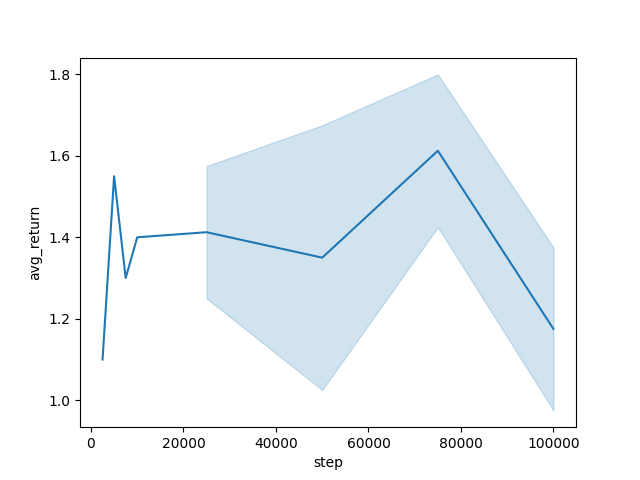
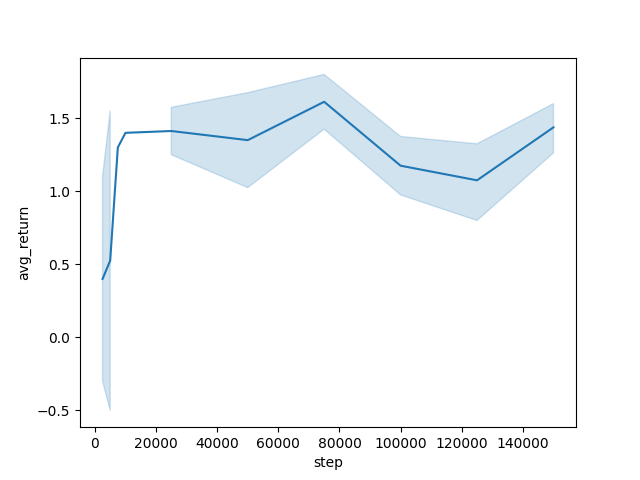
ajout drive sauveagarde

diff --git a/src/train.py b/src/train.py
@@ -5,8 +5,11 @@ import torch
 from crafter_wrapper import Env
 from dqn_agent import (DuelingCategoricalDQN, CategoricalDQNLearner, 
                       Agent, PrioritizedReplayBuffer)
+import json
+import shutil
+from pathlib import Path
 
-def _save_stats(episodic_returns, crt_step, path):
+def _save_stats(episodic_returns, crt_step, path, drive_path=None):
     episodic_returns = torch.tensor(episodic_returns)
     avg_return = episodic_returns.mean().item()
     print(
@@ -14,10 +17,17 @@ def _save_stats(episodic_returns, crt_step, path):
             crt_step, avg_return, episodic_returns.std().item()
         )
     )
+    # Sauvegarde locale
     with open(path / "eval_stats.pkl", "ab") as f:
         pickle.dump({"step": crt_step, "avg_return": avg_return}, f)
 
-def eval(agent, env, crt_step, opt):
+    # Sauvegarde sur Google Drive
+    if drive_path:
+        drive_path.mkdir(parents=True, exist_ok=True)
+        shutil.copy(path / "eval_stats.pkl", drive_path / "eval_stats.pkl")
+        print(f"Fichier sauvegardé dans Google Drive : {drive_path / 'eval_stats.pkl'}")
+
+def eval(agent, env, crt_step, opt, drive_path=None):
     episodic_returns = []
     for _ in range(opt.eval_episodes):
         obs, done = env.reset(), False
@@ -26,9 +36,12 @@ def eval(agent, env, crt_step, opt):
             action = agent.act(obs.to(opt.device), evaluate=True)
             obs, reward, done, info = env.step(action)
             episodic_returns[-1] += reward
-    _save_stats(episodic_returns, crt_step, Path(opt.logdir))
+    _save_stats(episodic_returns, crt_step, Path(opt.logdir), drive_path)
 
 def main(opt):
+    # Chemin Google Drive
+    drive_path = Path("/content/drive/MyDrive/your_project_folder/random_agent/0")
+    
     Path(opt.logdir).mkdir(parents=True, exist_ok=True)
     opt.device = torch.device("cuda" if torch.cuda.is_available() else "cpu")
     print(f"Using device: {opt.device}")
@@ -42,7 +55,7 @@ def main(opt):
     dqn = DuelingCategoricalDQN(action_space, opt.device, 
                                 atoms=opt.atoms, 
                                 Vmin=opt.Vmin, 
-                                Vmax=opt.Vmax).to(opt.device)
+                                Vmax=opt.Vmax,).to(opt.device)
     
     target_dqn = DuelingCategoricalDQN(action_space, opt.device,
                                        atoms=opt.atoms,
@@ -50,12 +63,11 @@ def main(opt):
                                        Vmax=opt.Vmax).to(opt.device)
     
     buffer = PrioritizedReplayBuffer(capacity=opt.buffer_size, history_length=opt.history_length)
-
     
     learner = CategoricalDQNLearner(
         dqn, target_dqn, action_space, buffer, opt.device, opt.logdir,
         gamma=opt.gamma, lr=opt.lr, Vmin=opt.Vmin, Vmax=opt.Vmax, atoms=opt.atoms,
-        target_update_freq=opt.target_update_freq, tau=0.005  # Add soft update parameter tau
+        target_update_freq=opt.target_update_freq, tau=0.005, drive_folder="/content/drive/MyDrive/your_project_folder/weights"
     )
     
     # Load weights if available
@@ -66,7 +78,7 @@ def main(opt):
         dqn, action_space,
         epsilon=1.0, 
         epsilon_min=opt.epsilon_min,
-        epsilon_decay=opt.epsilon_decay_slow  # Use slower decay rate
+        epsilon_decay=opt.epsilon_decay_slow
     )
 
     total_steps = 0
@@ -96,10 +108,12 @@ def main(opt):
             # Update exploration rate
             agent.update_epsilon()
 
-            # Periodic evaluation with increased frequency initially
+            # Periodic evaluation
             if total_steps % opt.eval_interval == 0:
-                eval(agent, eval_env, total_steps, opt)
+                eval(agent, eval_env, total_steps, opt, drive_path)
                 learner.save_weights()
+                shutil.copy(opt.logdir / "weights.pt", drive_path / "weights.pt")
+                print(f"Poids sauvegardés dans Google Drive : {drive_path / 'weights.pt'}")
 
         # Log episode end details every 10 episodes
         if episode % 10 == 0:

diff --git a/src/dqn_agent.py b/src/dqn_agent.py
@@ -235,7 +235,7 @@ class Agent:
 class CategoricalDQNLearner:
     def __init__(self, dqn, target_dqn, action_space, buffer, device, logdir, 
                  gamma=0.99, lr=0.00025, Vmin=-10, Vmax=10, atoms=51, 
-                 target_update_freq=8000, tau=0.005):
+                 target_update_freq=8000, tau=0.005, drive_folder=None):
         self.dqn = dqn
         self.target_dqn = target_dqn
         self.target_update_freq = target_update_freq
@@ -253,6 +253,35 @@ class CategoricalDQNLearner:
         self.atoms = atoms
         self.delta_z = (Vmax - Vmin) / (atoms - 1)
         self.support = torch.linspace(Vmin, Vmax, atoms).to(device)
+        
+        # Ajouter le chemin du dossier Google Drive
+        self.drive_folder = drive_folder
+
+    def save_weights(self):
+        # Sauvegarde locale
+        local_path = Path(self.logdir)
+        local_path.mkdir(parents=True, exist_ok=True)
+        torch.save(self.dqn.state_dict(), local_path / "weights.pth")
+        torch.save(self.target_dqn.state_dict(), local_path / "target_weights.pth")
+        print(f"Poids sauvegardés localement dans {local_path}")
+
+        # Sauvegarde sur Google Drive si un chemin est spécifié
+        if self.drive_folder:
+            drive_path = Path(self.drive_folder)
+            drive_path.mkdir(parents=True, exist_ok=True)
+            torch.save(self.dqn.state_dict(), drive_path / "weights.pth")
+            torch.save(self.target_dqn.state_dict(), drive_path / "target_weights.pth")
+            print(f"Poids sauvegardés dans Google Drive : {drive_path}")
+
+    def load_weights(self):
+        weights_path = Path(self.logdir) / "weights.pth"
+        target_weights_path = Path(self.logdir) / "target_weights.pth"
+        if weights_path.exists() and target_weights_path.exists():
+            self.dqn.load_state_dict(torch.load(weights_path))
+            self.target_dqn.load_state_dict(torch.load(target_weights_path))
+            print("Poids chargés depuis", self.logdir)
+        else:
+            print("Aucun poids trouvé. Début de l'entraînement depuis zéro.")
 
     def _soft_update_target_network(self):
         """Soft update of target network from policy network."""
@@ -317,16 +346,16 @@ class CategoricalDQNLearner:
 
         self.update_count += 1
 
-    def save_weights(self):
-        torch.save(self.dqn.state_dict(), str(Path(self.logdir) / "weights.pth"))
-        torch.save(self.target_dqn.state_dict(), str(Path(self.logdir) / "target_weights.pth"))
+    # def save_weights(self):
+    #     torch.save(self.dqn.state_dict(), str(Path(self.logdir) / "weights.pth"))
+    #     torch.save(self.target_dqn.state_dict(), str(Path(self.logdir) / "target_weights.pth"))
 
-    def load_weights(self):
-        weights_path = Path(self.logdir) / "weights.pth"
-        target_weights_path = Path(self.logdir) / "target_weights.pth"
-        if weights_path.exists() and target_weights_path.exists():
-            self.dqn.load_state_dict(torch.load(weights_path))
-            self.target_dqn.load_state_dict(torch.load(target_weights_path))
-            print("Weights loaded from", self.logdir)
-        else:
-            print("No weights found. Starting from scratch.")
+    # def load_weights(self):
+    #     weights_path = Path(self.logdir) / "weights.pth"
+    #     target_weights_path = Path(self.logdir) / "target_weights.pth"
+    #     if weights_path.exists() and target_weights_path.exists():
+    #         self.dqn.load_state_dict(torch.load(weights_path))
+    #         self.target_dqn.load_state_dict(torch.load(target_weights_path))
+    #         print("Weights loaded from", self.logdir)
+    #     else:
+    #         print("No weights found. Starting from scratch.")
